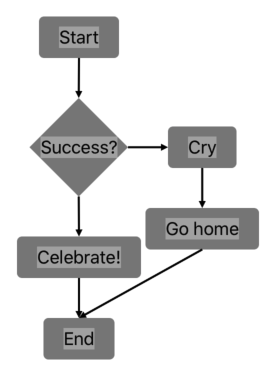
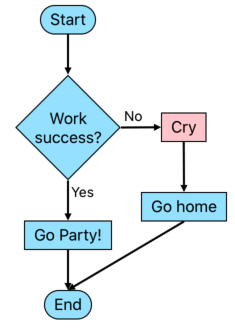
Update README

diff --git a/README.md b/README.md
@@ -21,31 +21,40 @@
 
 ## Example
 
-### Input
+### Input Swift code
+```swift
+var graph = Graph()
+
+var blueBoxConfig = BoxConfig.default
+blueBoxConfig.backgroundColor = UIColor(hex: "9EE5FF")!
+graph.boxConfig = blueBoxConfig
+
+var redBoxConfig = BoxConfig.default
+redBoxConfig.backgroundColor = UIColor(hex: "FFCCD0")!
+
+graph.addFlow([
+  Box(shape: .pill, title: "Start"),
+  Arrow(direction: .down),
+  Box(shape: .diamond, title: "Work\nsuccess?", id: "success"),
+  Arrow(direction: .down, title: "Yes"),
+  Box(shape: .rect, title: "Go Party!"),
+  Arrow(direction: .down),
+  Box(shape: .pill, title: "End", id: "end"),
+])
+
+graph.addFlow([
+  BoxShortcut(id: "success"),
+  Arrow(direction: .right, title: "No"),
+  Box(shape: .rect, title: "Cry", config: redBoxConfig),
+  Arrow(direction: .down, extraSpace: 10),
+  Box(shape: .rect, title: "Go home"),
+  Arrow(direction: .down),
+  BoxShortcut(id: "end"),
+])
 ```
-swiftflow
-  () Start
-  v
-  [] API Client receives responses
-  v
-  <> Success?
-  -YES-> Handle success :: result_yes, Direction.right
-  -NO-> Handle failure :: result_no
-
-  result_yes
-  v
-  [] Print Yay
-
-  result_no
-  v
-  [] Print Cry
-
-  vv
-  () End
-  ```
   
-### Output
-![Output](images/output.png)
+### Output Flowchart
+![Output](images/output2.png)
 
 ### Notes
 - I know the SwiftFlow name conflicts with https://github.com/Swift-Kit/Swift-Flow , but I don't care :P.
